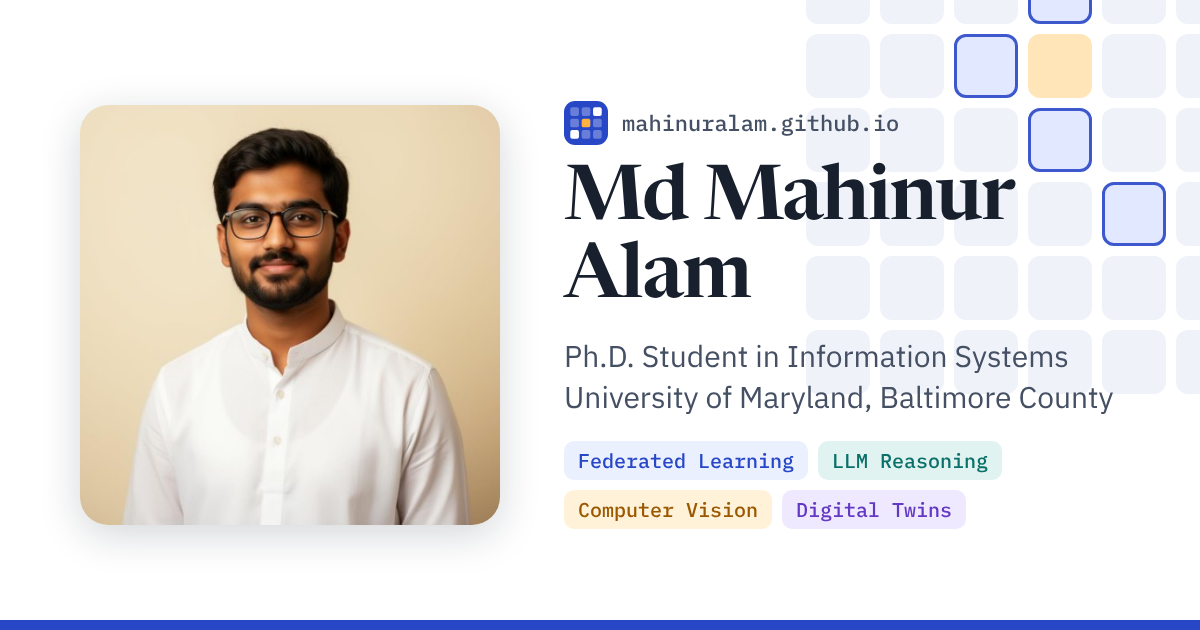
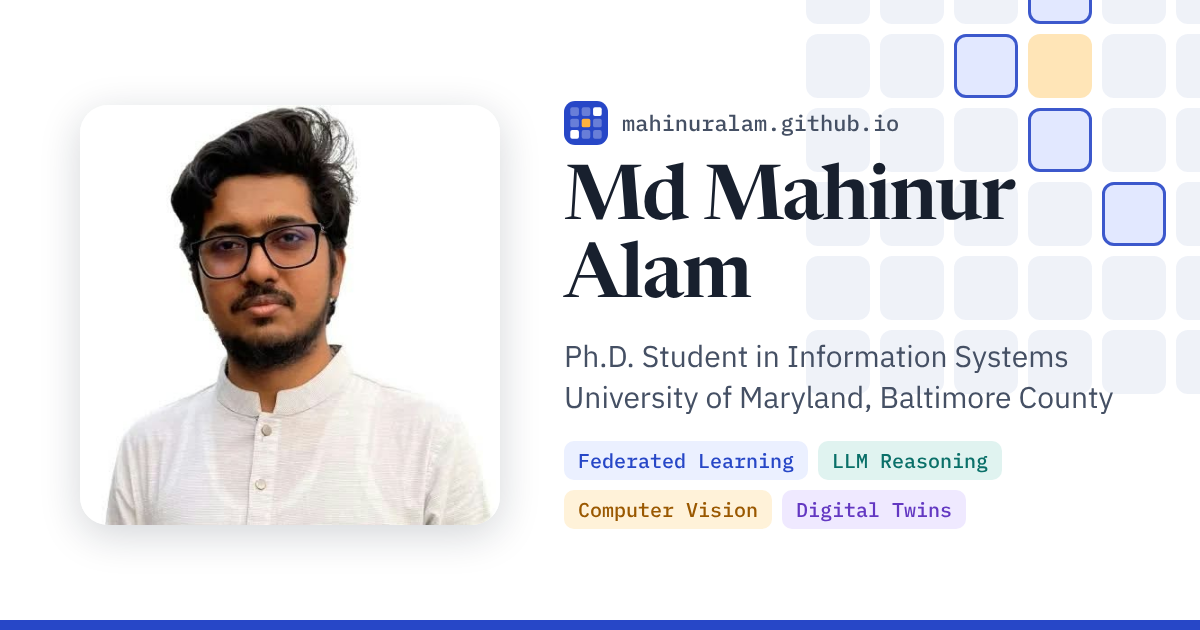
Add the FAR-TOD card and a new profile photo
- Add FAR-TOD (under review, WACV 2027 @ RWS) to the top of Selected
  Publications with its framework figure.
- Update its Publications entry to match: Under Review at the WACV
  Workshop on Real-World Surveillance, current title and author order.
- Replace the profile photo and re-render the link-preview card with it.

Claude-Session: https://claude.ai/code/session_01PDNt9u9bdecjmGnnKQyqPL

Changed region(s): [[0.0617, 0.1508, 0.4317, 0.8444]]

diff --git a/index.html b/index.html
@@ -137,7 +137,7 @@
 
   <!-- ===================================================== PROFILE -->
   <aside class="profile" aria-label="Profile">
-    <img class="profile__photo" src="images/profile.jpg" width="480" height="480" alt="Portrait of Md Mahinur Alam">
+    <img class="profile__photo" src="images/profile.jpg?v=2" width="467" height="467" alt="Portrait of Md Mahinur Alam">
     <div class="profile__head">
       <h1 class="profile__name">Md Mahinur Alam</h1>
       <p class="profile__role">Ph.D. Student, Information Systems<br>Federated Learning · LLM Reasoning · Computer Vision · Digital Twins</p>
@@ -261,6 +261,17 @@
       <div class="section__head"><h2 class="section__title" id="research-title">Selected Publications</h2></div>
 
       <div class="highlights">
+
+        <article class="hl">
+          <figure class="hl__fig">
+            <button class="hl__zoom" type="button" aria-label="Enlarge figure: FAR-TOD framework"><img src="images/highlights/far-tod-framework.png" width="762" height="328" alt="FAR-TOD framework: backbone features P2 to P4 feed SD-DPG, which proposes SAHI tiles; weak regions picked with GreedyNMM and IoS guide MS-FARGFF, which reconstructs the input and turns the reconstruction error map into a refined, enhanced feature; FC-DFP fuses it with the tile features for the detection head"></button>
+          </figure>
+          <div class="hl__body">
+            <h3 class="hl__title">FAR-TOD: Failure-Prior Adaptive Reconstruction Guided Tiny Object Detection</h3>
+            <p class="hl__authors"><b>M. M. Alam</b>, K. J. Tanha, S. Sakib, M. T. Alam and M. G. Kim</p>
+            <div class="hl__meta"><span class="hl__venue">WACV 2027 @ RWS</span><span class="chip">Under review</span></div>
+          </div>
+        </article>
 
         <article class="hl">
           <figure class="hl__fig">
@@ -619,20 +630,20 @@
             </div>
           </li>
           <li class="pub">
+            <span class="tag tag--review">Under Review</span>
+            <div class="pub__body">
+              <span class="pub__title">FAR-TOD: Failure-Prior Adaptive Reconstruction Guided Tiny Object Detection</span>
+              <p class="pub__authors"><span class="me">M. M. Alam</span>, K. J. Tanha, S. Sakib, M. T. Alam and M. G. Kim</p>
+              <p class="pub__venue"><em>WACV Workshop on Real-World Surveillance (RWS), 2027</em></p>
+            </div>
+          </li>
+          <li class="pub">
             <span class="tag tag--review">Submitted</span>
             <div class="pub__body">
               <span class="pub__title">Enhancing Quality Control in MES Using Optimized Deep Learning</span>
               <p class="pub__authors">M. R. Subhan, <span class="me">M. M. Alam</span>, and T. Jun</p>
               <p class="pub__venue"><em>Measurement</em></p>
               <p class="pub__links"><a class="link-btn" href="https://papers.ssrn.com/sol3/papers.cfm?abstract_id=5152602"><svg class="icon"><use href="#i-file"></use></svg>Preprint</a></p>
-            </div>
-          </li>
-          <li class="pub">
-            <span class="tag tag--prep">To Be Submitted</span>
-            <div class="pub__body">
-              <span class="pub__title">FAR-TOD: Failure-Prior Adaptive Reconstruction Guided Tiny Object Detection in UAV Imagery</span>
-              <p class="pub__authors"><span class="me">M. M. Alam</span>, K. J. Tanha, M. T. Alam, S. Sakib and M. G. Kim</p>
-              <p class="pub__venue"><em>CVPR @ AERO-HPR, 2027</em></p>
             </div>
           </li>
         </ol>
